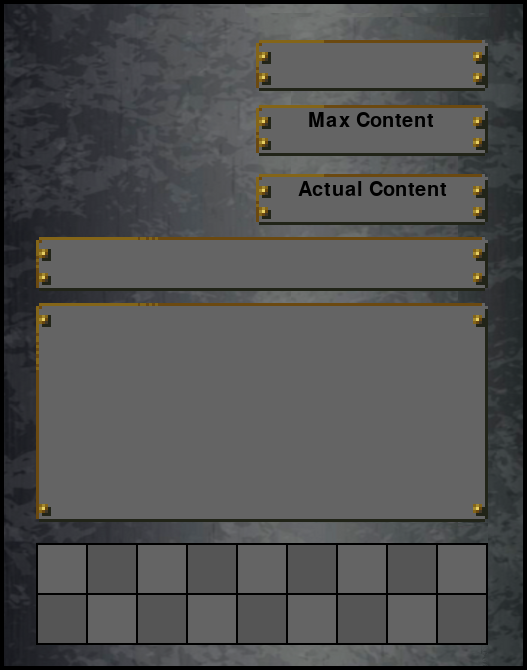
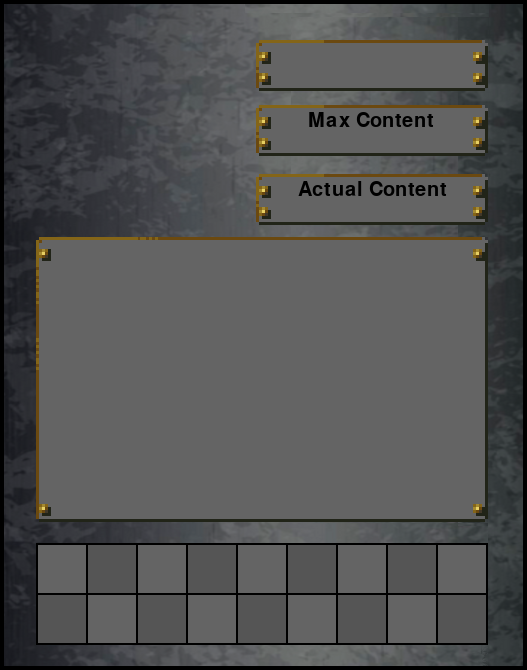
Show stats of units in content

Changed region(s): [[0.0607, 0.3881, 0.9412, 0.5075]]

diff --git a/gui.py b/gui.py
@@ -56,7 +56,7 @@ class Unit():
 			self.currentSize = 10
 			self.faction = 'Central Powers' if self.country in ['Germany', 'Austria', 'Bulgaria', 'Ottoman'] else 'Entente Cordial'
 			if self.storageMax > 0:
-				self.content = []
+				self.content = [[False for x in range(9)], [False for x in range(9)]]
 			for w in data['weapons']:
 				if w:
 					self.weapons.append(Weapon(w))
@@ -143,13 +143,13 @@ class HexSquare():
 		self.sightModifier = bgTilesModifiers[hexType][2]
 		if hexType == 'hqN':
 			self.name = "Headquarters"
-			self.content = []
+			self.content = [[False for x in range(9)], [False for x in range(9)]]
 			self.storageMax = 50
 			self.storageActual = 0
 			self.picture = pygame.image.load('gfx/units/pictures/hq.png')
 		elif hexType == 'cmpN':
 			self.name = "Depot"
-			self.content = []
+			self.content = [[False for x in range(9)], [False for x in range(9)]]
 			self.storageMax = 40
 			self.storageActual = 0
 			self.picture = pygame.image.load('gfx/units/pictures/storage.png')
@@ -228,8 +228,8 @@ class ContentMenu():
 
 
 
-#				print(pygame.mouse.get_pos())
-#				do what? Start a submenu?
+				print("Generate and show the submenu")
+				sys.exit()
 
 
 
@@ -270,46 +270,58 @@ class ContentMenu():
 
 	def draw(self):
 		_frame = self._frame.copy()
+		for y in range(9):
+			for x in range(2):
+				if self.content[x][y]:
+					_frame.blit(self.content[x][y].contentIcon, [38 + (y * 50), 545 + (x * 50)])
+		# draw info for highlighted unit, if any
+		focusX = self.focused[0].count
+		focusY = self.focused[1].count
 
 
 
-#		print(self.content)
-		for no, unit in enumerate(self.content):
-			row = no % 2
-			column = math.floor(no / 2)
-#			print(no, unit, (column, row))
-#			print(self.xPos, self.yPos)
-			_frame.blit(unit.contentIcon, [38 + (column * 50), 545 + (row * 50)])
-#			print(unit.allIcons[0])
+		# update unit name and info
+		if self.content[focusY][focusX]:
+			_unit = self.content[focusY][focusX]
+			unitGUI = pygame.Surface((662, 438))
+			unitGUI.blit(self.parent.interface.backgroundTextureUnit, (4, 4))
+			unitPanel = self.parent.interface.unitPanel.copy()
+			unitPanel.blit(self.parent.interface.flags, [3, 3], (self.parent.interface.flagIndex[_unit.country] * 88, 0, 88, 88))
+			unitPanel.blit(_unit.mapIcon, [-1, -1])
+			unitPanel.blit(self.parent.interface.ranksGfx, [4, 103], (_unit.experience * 88, 0, 88, 88))
+			unitPanel.blit(_unit.picture, [380, 3])
+			gfx = font20.render(_unit.name, True, (208, 185, 140)); 			unitPanel.blit(gfx, [236 - (gfx.get_width() / 2), 9])
+			gfx = font20.render(_unit.faction, True, (208, 185, 140)); 			unitPanel.blit(gfx, [236 - (gfx.get_width() / 2), 50])
+			gfx = font20.render(str(_unit.sight), True, (208, 185, 140)); 		unitPanel.blit(gfx, [175 - (gfx.get_width() / 2), 105])
+			gfx = font20.render(str(_unit.speed), True, (208, 185, 140)); 		unitPanel.blit(gfx, [249 - (gfx.get_width() / 2), 105])
+			gfx = font20.render(str(_unit.currentSize), True, (208, 185, 140)); unitPanel.blit(gfx, [323 - (gfx.get_width() / 2), 105])
+			gfx = font20.render(str(_unit.armour), True, (208, 185, 140)); 		unitPanel.blit(gfx, [175 - (gfx.get_width() / 2), 155])
+			gfx = font20.render(str(_unit.weight), True, (208, 185, 140)); 		unitPanel.blit(gfx, [249 - (gfx.get_width() / 2), 155])
+			gfx = font20.render(str(_unit.fuel), True, (208, 185, 140)); 		unitPanel.blit(gfx, [323 - (gfx.get_width() / 2), 155])
+			# mark active skills
+			unitGUI.blit(self.parent.interface.unitSkills, [618, 11])
+			for x in _unit.skills:
+				unitGUI.blit(self.parent.interface.skillsMarker, [616, (x * 28) - 19])
+			# weapons
+			pygame.draw.rect(unitGUI, colors.almostBlack, (0, 218, 662, 58), 4)							# weapons borders 1
+			pygame.draw.rect(unitGUI, colors.almostBlack, (0, 326, 662, 58), 4)							# weapons borders 2
+			unitGUI.blit(_unit.weaponsGfx[0], [4, 222])
+			unitGUI.blit(_unit.weaponsGfx[1], [4, 276])
+			unitGUI.blit(_unit.weaponsGfx[2], [4, 330])
+			unitGUI.blit(_unit.weaponsGfx[3], [4, 384])
+			unitGUI.blit(unitPanel, [10, 10])
+			_frame.blit(pygame.transform.scale(unitGUI, (452, 285)), [36, 237])
 
-	# SPARKMIG!		
 
 
 
+
+
+
+		# draw cursor
 		_frame.blit(self.cursorGfx, (self.xPos, self.yPos))
 		self.parent.display.blit(_frame, [self.location[0], self.location[1]])
-
-
-
-
-
-
-
-
-
-
-
-
-
-
-
-
-
-
-
-
-
-
+		return
 
 
 
@@ -488,12 +500,6 @@ class ActionMenu():
 			_unit = self.parent.interface.currentSquare().unit
 			self.parent.interface.contentMenu.create(_unit)
 			self.parent.mode = "showContent"
-			print(_unit)
-
-
-
-
-	#		sys.exit('notImplemented Exception: Content')
 		elif _butID == 3:								# RETURN
 			self.parent.mode = "normal"
 
@@ -1011,7 +1017,6 @@ class GUI():
 			unitGUI.blit(square.unit.weaponsGfx[3], [4, 384])
 			unitGUI.blit(unitPanel, [10, 10])
 		self.parent.display.blit(unitGUI, [1124, 545])
-		return 1
 
 
 
@@ -1184,14 +1189,21 @@ class GUI():
 			pixelCoordXfrom = pixelCoordXto
 			pixelCoordYfrom = pixelCoordYto
 		# check if target has content
+		_delivered = False
 		if toHex.content != False:
-			toHex.content.append(_unitMoved)
-			toHex.storageActual += _unitMoved.weight
-			print("HEX", toHex.content, toHex.storageActual)
+			for y in range(9):
+				for x in range(2):
+					if not _delivered and not toHex.content[x][y]:
+						_delivered = True
+						toHex.content[x][y] =_unitMoved			# NB! Unit is lost if unit its full, should not be possible
+						toHex.storageActual += _unitMoved.weight
 		elif toHex.unit and _unitMoved.weight + toHex.unit.storageActual <= toHex.unit.storageMax:			# if enough room 
-			toHex.unit.content.append(_unitMoved)
-			toHex.unit.storageActual += _unitMoved.weight
-			print(toHex.unit.content, toHex.unit.storageActual)
+			for y in range(9):
+				for x in range(2):
+					if not _delivered and not toHex.unit.content[x][y]:
+						_delivered = True
+						toHex.unit.content[x][y] =_unitMoved	# NB! Unit is lost if unit its full, must be handled
+						toHex.unit.storageActual += _unitMoved.weight
 		else:
 			toHex.unit = _unitMoved
 		# generate and display new map with unit
